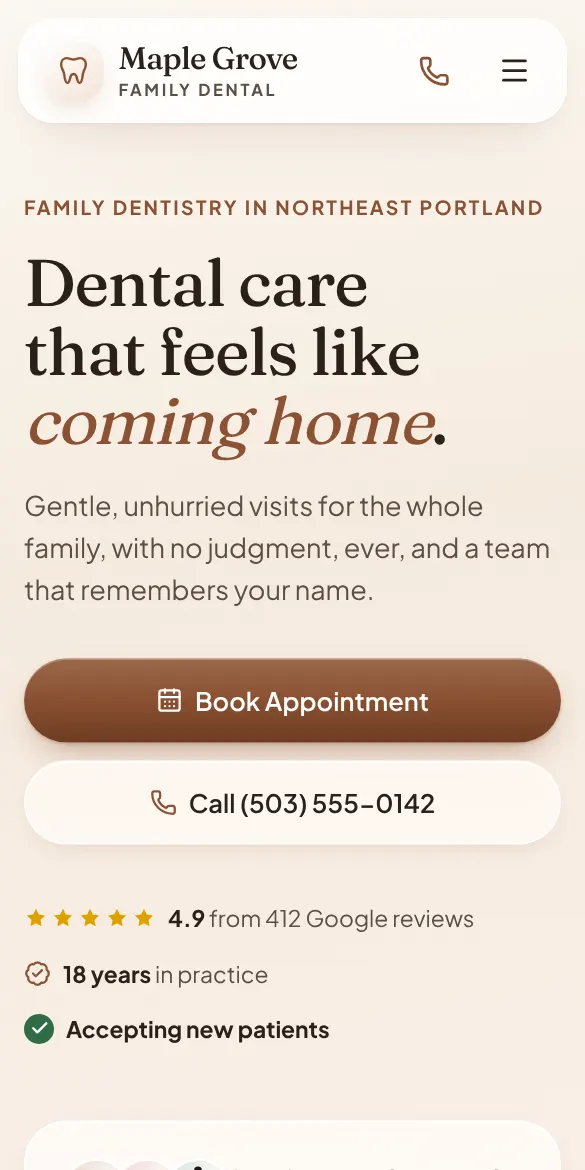
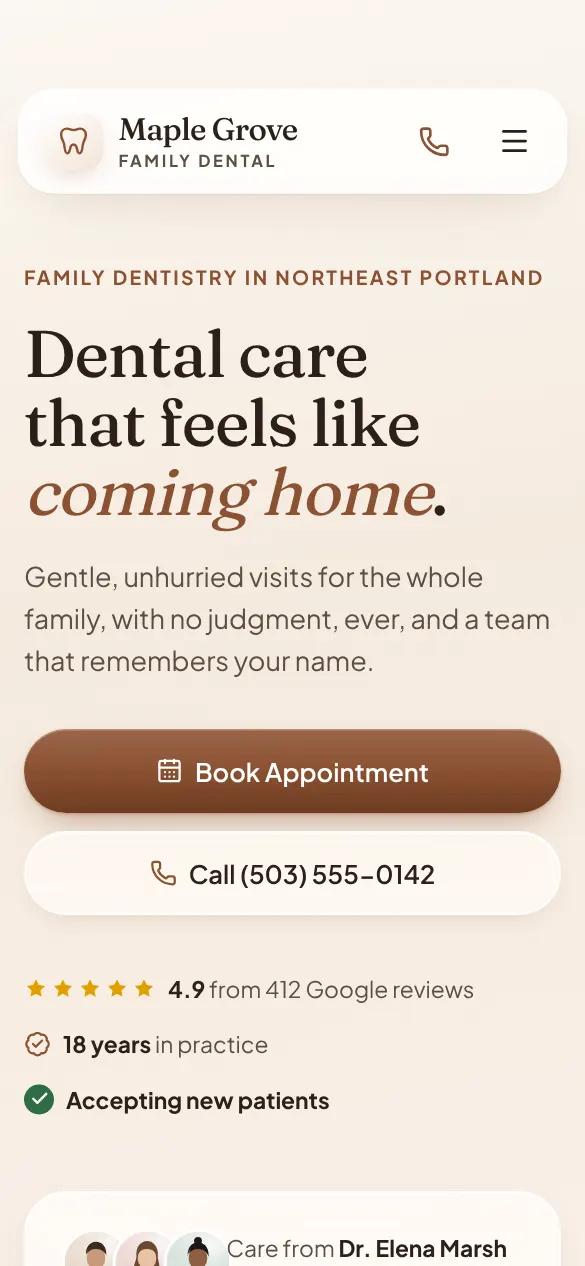
Business site: realistic iPhone mockups, Growth plan line
- Phone stills are captured at iPhone size (390x844) with room for the
  status bar, so they fit the frame without cropping
- Shared iPhone mockup: titanium bezel, rounded screen, Dynamic Island,
  9:41 status bar; scales with its size (hero, examples, link preview)
- Growth: "Optimized just for you" (one line, like the other plans)

Claude-Session: https://claude.ai/code/session_01Dz74CLANB8ZvbaNPtyytFn

diff --git a/business-site/public/index.html b/business-site/public/index.html
@@ -72,9 +72,15 @@
   .hero .actions { display: flex; flex-wrap: wrap; gap: 14px; margin-top: 32px; }
   .hero .points { display: flex; flex-wrap: wrap; gap: 10px 22px; margin: 28px 0 0; padding: 0; list-style: none; color: var(--muted); font-weight: 600; font-size: .95rem; }
   .hero .points li::before { content: "✓"; color: var(--honey); margin-right: 8px; }
+  /* iPhone mockup: titanium bezel, rounded screen, Dynamic Island and a status bar. Scales with its width. */
+  .iphone { container-type: inline-size; aspect-ratio: 390 / 844; border-radius: 16% / 7.4%; background: linear-gradient(145deg, #3a3a3d, #1b1b1d 45%, #2c2c2f); box-shadow: inset 0 0 0 1px rgb(255 255 255 / .12), 0 30px 60px -30px rgb(43 33 24 / .55); }
+  .iphone .screen { position: absolute; inset: 3.2cqw; border-radius: 13cqw; overflow: hidden; background: #fff; }
+  .iphone .screen img { display: block; width: 100%; height: 100%; object-fit: cover; object-position: top; }
+  .iphone::after { content: ""; position: absolute; z-index: 2; top: 5.6cqw; left: 50%; translate: -50% 0; width: 29cqw; height: 8.4cqw; border-radius: 99px; background: #000; }
+  .iphone::before { content: "9:41"; position: absolute; z-index: 2; top: 6.4cqw; left: 13cqw; font: 600 4.3cqw/1 -apple-system, "SF Pro Text", "Plus Jakarta Sans", sans-serif; color: #111; letter-spacing: -.01em; }
+  .iphone .screen::after { content: ""; position: absolute; top: 3.3cqw; right: 9cqw; width: 6.6cqw; height: 3.1cqw; border-radius: 1cqw; border: .45cqw solid rgb(17 17 17 / .55); background: linear-gradient(90deg, #111 0 78%, transparent 78%) content-box; padding: .4cqw; }
   .phones { position: relative; height: 520px; }
-  .phone { position: absolute; width: 230px; border-radius: 34px; border: 8px solid var(--ink); background: var(--ink); box-shadow: 0 30px 60px -30px rgb(43 33 24 / .5); overflow: hidden; }
-  .phone img { display: block; width: 100%; height: auto; border-radius: 26px; }
+  .phone { position: absolute; width: 230px; }
   .phone.a { left: 0; top: 40px; transform: rotate(-6deg); }
   .phone.b { right: 0; top: 0; transform: rotate(5deg); }
   @media (max-width: 860px) {
@@ -116,9 +122,7 @@
   .browser .bar i { width: 10px; height: 10px; border-radius: 99px; background: #d9c9ad; }
   .browser img { display: block; width: 100%; height: auto; aspect-ratio: 16 / 10; }
   /* Phone: an iPhone laid over the corner, showing the site's first screen. */
-  .example .frame { position: absolute; right: 0; bottom: 0; width: 27%; aspect-ratio: 9 / 19.5; border-radius: 30px; border: 6px solid var(--ink); overflow: hidden; background: var(--ink); box-shadow: 0 30px 50px -25px rgb(43 33 24 / .6); }
-  .example .frame::before { content: ""; position: absolute; top: 8px; left: 50%; translate: -50% 0; width: 34%; height: 14px; border-radius: 99px; background: var(--ink); z-index: 2; }
-  .example .frame img { display: block; width: 100%; height: 100%; object-fit: cover; object-position: top; }
+  .example .frame { position: absolute; right: 0; bottom: 0; width: 27%; }
   .example h3 { font-size: 1.8rem; }
   .example p { color: var(--muted); margin-top: 8px; }
   .example .open { display: inline-block; margin-top: 16px; font-weight: 700; color: var(--honey); }
@@ -126,7 +130,6 @@
     .example, .example:nth-child(even) { grid-template-columns: 1fr; gap: 24px; }
     .example:nth-child(even) .mock { order: 0; }
     .mock { padding: 0 36px 32px 0; }
-    .example .frame { border-radius: 22px; border-width: 5px; }
   }
 
   .compare { display: grid; grid-template-columns: repeat(4, 1fr); gap: 20px; margin-top: 40px; }
@@ -194,8 +197,8 @@
         </ul>
       </div>
       <div class="phones" aria-hidden="true">
-        <div class="phone a"><img src="/img/butter-top.webp" alt="" width="585" height="1170"></div>
-        <div class="phone b"><img src="/img/honey-top.webp" alt="" width="585" height="1170"></div>
+        <div class="phone a iphone"><div class="screen"><img src="/img/butter-top.webp" alt="" width="585" height="1266"></div></div>
+        <div class="phone b iphone"><div class="screen"><img src="/img/honey-top.webp" alt="" width="585" height="1266"></div></div>
       </div>
     </div>
   </section>
@@ -255,21 +258,21 @@
         <a class="example" href="https://demos.butterbite.workers.dev/maple-grove/?design=butter" target="_blank" rel="noopener">
           <div class="mock">
             <div class="browser"><div class="bar" aria-hidden="true"><i></i><i></i><i></i></div><img src="/img/butter-desktop.webp" alt="Butter design on a computer, shown on Maple Grove Family Dental" width="1440" height="900" loading="lazy"></div>
-            <div class="frame"><img src="/img/butter-top.webp" alt="Butter design on a phone" loading="lazy"></div>
+            <div class="frame iphone"><div class="screen"><img src="/img/butter-top.webp" alt="Butter design on a phone" width="585" height="1266" loading="lazy"></div></div>
           </div>
           <div><h3>Butter</h3><p>Soft and airy, with frosted glass. Shown on a family practice.</p><span class="open">Open the demo →</span></div>
         </a>
         <a class="example" href="https://demos.butterbite.workers.dev/little-sprouts/?design=honey" target="_blank" rel="noopener">
           <div class="mock">
             <div class="browser"><div class="bar" aria-hidden="true"><i></i><i></i><i></i></div><img src="/img/honey-desktop.webp" alt="Honey design on a computer, shown on Little Sprouts Pediatric Dentistry" width="1440" height="900" loading="lazy"></div>
-            <div class="frame"><img src="/img/honey-top.webp" alt="Honey design on a phone" loading="lazy"></div>
+            <div class="frame iphone"><div class="screen"><img src="/img/honey-top.webp" alt="Honey design on a phone" width="585" height="1266" loading="lazy"></div></div>
           </div>
           <div><h3>Honey</h3><p>Warm, friendly and playful. Shown on a kids’ practice.</p><span class="open">Open the demo →</span></div>
         </a>
         <a class="example" href="https://demos.butterbite.workers.dev/lumiere/?design=cinnamon" target="_blank" rel="noopener">
           <div class="mock">
             <div class="browser"><div class="bar" aria-hidden="true"><i></i><i></i><i></i></div><img src="/img/cinnamon-desktop.webp" alt="Cinnamon design on a computer, shown on Lumière Dental Studio" width="1440" height="900" loading="lazy"></div>
-            <div class="frame"><img src="/img/cinnamon-top.webp" alt="Cinnamon design on a phone" loading="lazy"></div>
+            <div class="frame iphone"><div class="screen"><img src="/img/cinnamon-top.webp" alt="Cinnamon design on a phone" width="585" height="1266" loading="lazy"></div></div>
           </div>
           <div><h3>Cinnamon</h3><p>Personal and handmade, with a note from the dentist. Shown on a cosmetic studio.</p><span class="open">Open the demo →</span></div>
         </a>
@@ -297,7 +300,7 @@
       <p class="lead">Simple pricing with a one-time setup and a flat monthly fee. We’ll walk you through it on our call.</p>
       <div class="plans">
         <div class="card plan"><p class="tag">Essentials</p><h3>A website patients love</h3><ul><li>Professional website, hosting and security</li><li>Online booking link</li><li>Google-ready SEO setup</li><li>Monthly results email</li></ul></div>
-        <div class="card plan"><p class="tag">Growth</p><h3>Your website and Google, always improving</h3><ul><li>Everything in Essentials</li><li>Google profile care</li><li>Review requests</li><li>Ongoing local SEO</li></ul></div>
+        <div class="card plan"><p class="tag">Growth</p><h3>Optimized just for you</h3><ul><li>Everything in Essentials</li><li>Google profile care</li><li>Review requests</li><li>Ongoing local SEO</li></ul></div>
         <div class="card plan"><p class="tag">Premium</p><h3>Your full growth team</h3><ul><li>Everything in Growth</li><li>Fully custom design</li><li>Google Ads management</li><li>Monthly strategy call</li></ul></div>
       </div>
     </div>

diff --git a/business-site/og/og.html b/business-site/og/og.html
@@ -16,11 +16,15 @@
   h1 em { color: #8a5212; }
   p { font-size: 27px; color: #4a3d33; margin-top: 22px; line-height: 1.35; }
   .tag { margin-top: 30px; font-size: 19px; font-weight: 700; letter-spacing: .12em; text-transform: uppercase; color: #8a5212; }
-  .phone { position: absolute; width: 230px; border-radius: 34px; border: 8px solid #2b2118; background: #2b2118; overflow: hidden; box-shadow: 0 30px 60px -28px rgb(43 33 24 / .55); }
-  .phone img { display: block; width: 100%; border-radius: 26px; }
-  .p1 { left: 640px; top: 110px; transform: rotate(-7deg); }
-  .p2 { left: 800px; top: 60px; transform: rotate(0deg); z-index: 2; }
-  .p3 { left: 960px; top: 120px; transform: rotate(7deg); }
+  .phone { position: absolute; width: 230px; }
+  .iphone { container-type: inline-size; aspect-ratio: 390 / 844; border-radius: 16% / 7.4%; background: linear-gradient(145deg, #3a3a3d, #1b1b1d 45%, #2c2c2f); box-shadow: inset 0 0 0 1px rgb(255 255 255 / .12), 0 30px 60px -28px rgb(43 33 24 / .55); }
+  .iphone .screen { position: absolute; inset: 3.2cqw; border-radius: 13cqw; overflow: hidden; }
+  .iphone .screen img { display: block; width: 100%; height: 100%; object-fit: cover; object-position: top; }
+  .iphone::after { content: ""; position: absolute; z-index: 2; top: 5.6cqw; left: 50%; translate: -50% 0; width: 29cqw; height: 8.4cqw; border-radius: 99px; background: #000; }
+  .iphone::before { content: "9:41"; position: absolute; z-index: 2; top: 6.4cqw; left: 13cqw; font: 600 4.3cqw/1 "Plus Jakarta Sans", sans-serif; color: #111; }
+  .p1 { left: 640px; top: 90px; transform: rotate(-7deg); }
+  .p2 { left: 800px; top: 40px; transform: rotate(0deg); z-index: 2; }
+  .p3 { left: 960px; top: 100px; transform: rotate(7deg); }
 </style>
 </head>
 <body>
@@ -30,8 +34,8 @@
     <p>Websites that make patients feel at home.</p>
     <div class="tag">Websites · Google · Reviews</div>
   </div>
-  <div class="phone p1"><img src="../public/img/honey-top.webp" alt=""></div>
-  <div class="phone p2"><img src="../public/img/butter-top.webp" alt=""></div>
-  <div class="phone p3"><img src="../public/img/cinnamon-top.webp" alt=""></div>
+  <div class="phone p1 iphone"><div class="screen"><img src="../public/img/honey-top.webp" alt=""></div></div>
+  <div class="phone p2 iphone"><div class="screen"><img src="../public/img/butter-top.webp" alt=""></div></div>
+  <div class="phone p3 iphone"><div class="screen"><img src="../public/img/cinnamon-top.webp" alt=""></div></div>
 </body>
 </html>
